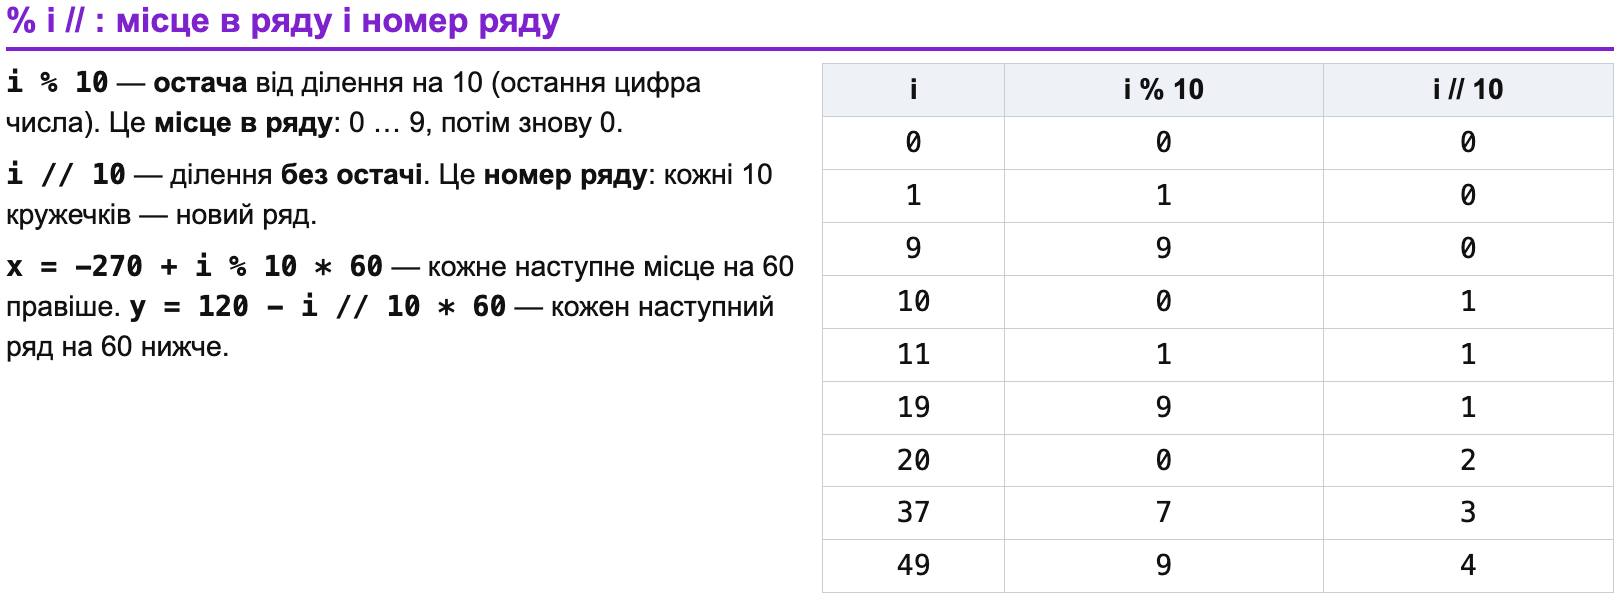
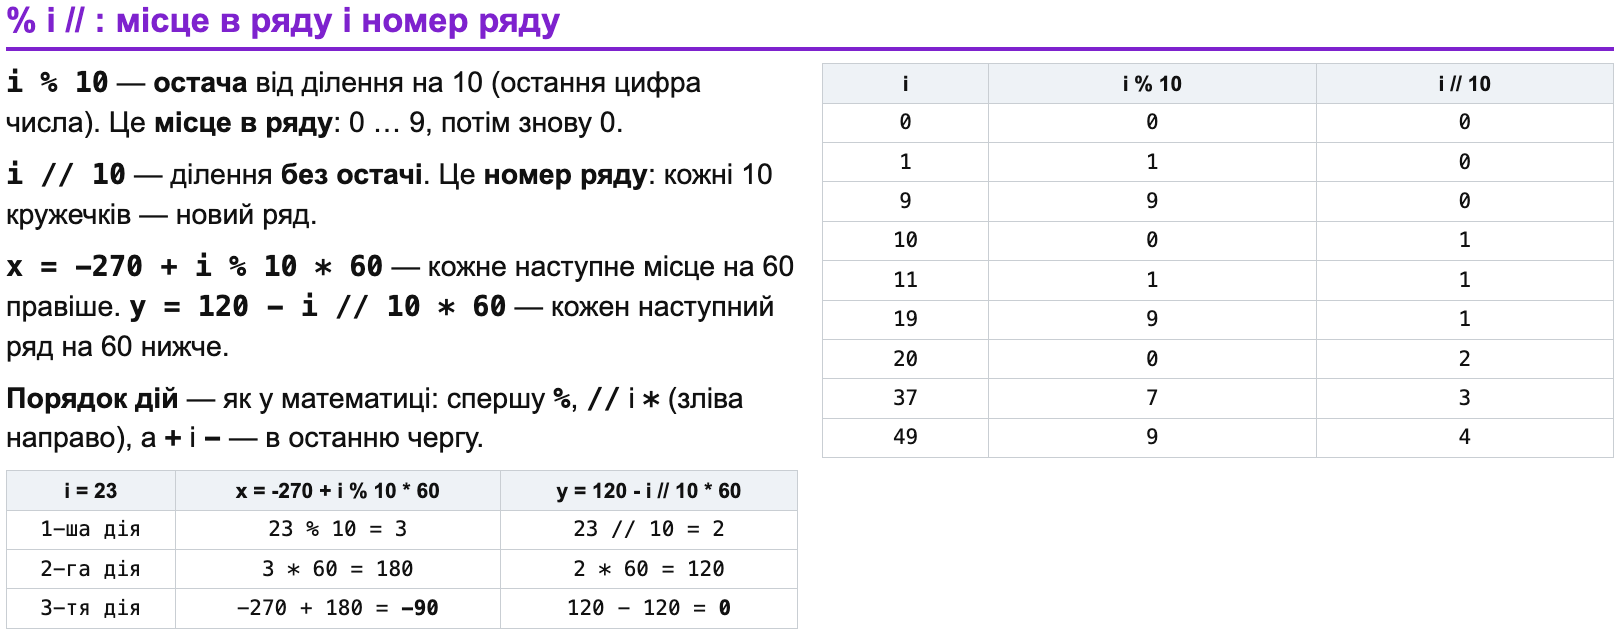
Урок 10.11: налагодження програм для 8-А; 7-Б: порядок дій і ширші таблиці

diff --git a/8a-nalagodzhennia.html b/8a-nalagodzhennia.html
@@ -1,0 +1,129 @@
+<!DOCTYPE html>
+<html lang="uk">
+<head>
+<meta charset="utf-8">
+<meta name="viewport" content="width=device-width, initial-scale=1">
+<title>Налагодження програм</title>
+<style>
+  * { box-sizing: border-box; }
+  :root { --a: #0b5cad; --a2: #eef4fb; }
+  body { margin: 0; background: #e9ecef; color: #111; font: 19px/1.4 "Segoe UI", Roboto, Arial, sans-serif; }
+  .sheet { max-width: 1120px; margin: 12px auto; background: #fff; border: 1px solid #c9ced3; padding: 14px 24px 18px; }
+  section { margin-top: 20px; }
+  h1 { font-size: 30px; margin: 0 0 6px; text-wrap: balance; }
+  h1 span { font-weight: 400; color: #555; font-size: 19px; }
+  h2 { font-size: 23px; margin: 0 0 8px; color: var(--a); border-bottom: 3px solid var(--a); padding-bottom: 2px; text-wrap: balance; }
+  p { margin: 0 0 8px; }
+  ol, ul { margin: 0 0 8px; padding-left: 1.4em; } li { margin-bottom: 4px; }
+  code { font-family: Consolas, "Courier New", monospace; font-weight: 700; }
+  .big { font-weight: 700; background: #fff6dd; border-left: 5px solid #c79100; padding: 6px 10px; margin: 0 0 8px; }
+  .digits { font: 700 26px Consolas, "Courier New", monospace; letter-spacing: 1px; background: #111; color: #ffe066; padding: 6px 12px; border-radius: 6px; margin: 0 0 8px; overflow-x: auto; white-space: nowrap; }
+  .digits span { color: #fff; }
+  .two { display: grid; grid-template-columns: minmax(0, 1fr) 360px; gap: 16px; align-items: start; }
+  pre { font-family: Consolas, "Courier New", monospace; font-weight: 700; font-size: 17px; line-height: 1.3; background: #f4f6f9; border: 2px solid #d5dbe3; border-left: 8px solid var(--a); border-radius: 4px; padding: 6px 10px; margin: 0 0 8px; overflow-x: auto; }
+  .k { color: #b0006e; } .s { color: #0a6e2a; } .n { color: #b45309; }
+  figure { margin: 0; }
+  svg.pic { width: 100%; height: auto; display: block; border-radius: 6px; }
+  figcaption { font-size: 16px; color: #444; margin-top: 3px; }
+  .run { background: #fff6dd; border-left: 5px solid #c79100; padding: 5px 10px; margin: 0 0 8px; }
+  .try { background: var(--a2); border-left: 5px solid var(--a); padding: 5px 10px; margin: 0 0 8px; }
+  .try b { color: var(--a); }
+  table { border-collapse: collapse; margin: 0 0 8px; width: 100%; }
+  td, th { border: 1px solid #c9ced3; padding: 4px 9px; text-align: left; vertical-align: top; }
+  th { background: #eef2f6; }
+  td:first-child code { white-space: nowrap; }
+  .wrap { overflow-x: auto; }
+  .star { background: #eef8ee; border-left: 5px solid #1a7f37; padding: 6px 10px; }
+  button { font: inherit; font-size: 17px; padding: 4px 12px; border: 2px solid var(--a); border-radius: 5px; background: #fff; color: var(--a); font-weight: 700; cursor: pointer; }
+  button:disabled { opacity: .55; cursor: default; }
+  button:focus-visible, input:focus-visible { outline: 3px solid #f5b400; outline-offset: 1px; }
+  .quiz { display: grid; gap: 8px; margin-bottom: 8px; }
+  .q { border: 1px solid #d5dae0; border-radius: 6px; padding: 8px 12px; }
+  .ans { display: flex; flex-wrap: wrap; gap: 8px; align-items: center; }
+  .ans input { font: 700 19px Consolas, "Courier New", monospace; width: 5em; padding: 4px 8px; border: 2px solid #9aa4ae; border-radius: 5px; }
+  .q p { margin-bottom: 6px; }
+  .q.yes { border-color: #1a7f37; background: #f3faf4; }
+  .q.no { border-color: #b42318; background: #fdf3f2; }
+  .mark { font-weight: 700; }
+  .q.yes .mark { color: #1a7f37; } .q.no .mark { color: #b42318; }
+  .score { font-weight: 700; font-size: 21px; }
+  @media (max-width: 820px) { .two { grid-template-columns: 1fr; } }
+  .tasks { display: grid; gap: 8px; margin: 0 0 8px; padding: 0; list-style: none; counter-reset: t; }
+  .tasks li { counter-increment: t; border: 1px solid #d5dae0; border-radius: 6px; padding: 6px 10px 6px 44px; position: relative; margin: 0; }
+  .tasks li::before { content: counter(t); position: absolute; left: 10px; top: 6px; background: var(--a); color: #fff; font-weight: 700; border-radius: 50%; width: 1.5em; height: 1.5em; display: flex; align-items: center; justify-content: center; font-size: .9em; }
+  .tasks .was { color: #b42318; } .tasks .now { color: #1a7f37; }
+  .quiz { grid-template-columns: 1fr 1fr; }
+  @media (max-width: 820px) { .quiz { grid-template-columns: 1fr; } }
+
+  .kinds { display: grid; grid-template-columns: repeat(3, minmax(0, 1fr)); gap: 12px; margin: 0 0 8px; }
+  .kind { border: 2px solid #d5dae0; border-radius: 8px; padding: 8px 10px; min-width: 0; }
+  .kind h3 { margin: 0 0 4px; font-size: 20px; }
+  .kind pre { font-size: 15px; }
+  .k1 { border-color: #c2410c; } .k1 h3 { color: #c2410c; }
+  .k2 { border-color: #b42318; } .k2 h3 { color: #b42318; }
+  .k3 { border-color: #7e22ce; } .k3 h3 { color: #7e22ce; }
+  .err { background: #fff1f0; border: 1px solid #f5c2c0; color: #8a1c14; font-family: Menlo, Consolas, monospace; font-size: 15px; padding: 6px 10px; border-radius: 4px; white-space: pre-wrap; margin: 0 0 8px; }
+  .out { background: #f0fdf4; border: 1px solid #bbf7d0; font-family: Menlo, Consolas, monospace; font-size: 15px; padding: 6px 10px; border-radius: 4px; white-space: pre-wrap; margin: 0 0 8px; }
+  .bug { border: 2px solid #d5dae0; border-radius: 8px; padding: 8px 12px; margin: 0 0 12px; }
+  .bug h3 { margin: 0 0 6px; font-size: 20px; }
+  .lab { font-size: 13px; letter-spacing: 1px; text-transform: uppercase; color: #6b7280; margin: 4px 0 2px; }
+  .ann td:first-child { white-space: nowrap; }
+  @media (max-width: 820px) { .kinds { grid-template-columns: 1fr; } }
+
+  .sheet img { display: block; max-width: 100%; height: auto; margin: 0 0 14px; -webkit-user-drag: none; user-select: none; }
+  .q p { margin: 0 0 6px; } .q img { margin: 0 !important; }
+</style>
+</head>
+<body>
+<div class="sheet">
+  <img src="8a-nalagodzhennia/b00.png" width="1040" height="123" alt="Налагодження програм" draggable="false">
+  <img src="8a-nalagodzhennia/b01.png" width="1080" height="383" alt="Три види помилок" draggable="false">
+  <img src="8a-nalagodzhennia/b02.png" width="1080" height="363" alt="Як читати повідомлення про помилку" draggable="false">
+  <img src="8a-nalagodzhennia/b03.png" width="1080" height="349" alt="Найчастіші повідомлення" draggable="false">
+  <img src="8a-nalagodzhennia/b04.png" width="1080" height="434" alt="Як шукати логічну помилку" draggable="false">
+  <img src="8a-nalagodzhennia/b05.png" width="1080" height="289" alt="Як працювати із завданнями" draggable="false">
+  <img src="8a-nalagodzhennia/b06.png" width="1080" height="1216" alt="Завдання 1–4" draggable="false">
+  <img src="8a-nalagodzhennia/b07.png" width="1080" height="1127" alt="Завдання 5–8" draggable="false">
+  <img src="8a-nalagodzhennia/b08.png" width="1080" height="1489" alt="Завдання 9–12" draggable="false">
+  <img src="8a-nalagodzhennia/b09.png" width="1080" height="185" alt="★ Для тих, хто вже все зробив" draggable="false">
+  <img src="8a-nalagodzhennia/b10.png" width="1080" height="69" alt="Тест: 12 питань" draggable="false">
+  <div class="quiz" id="quiz"></div>
+  <p class="score" id="score">Правильно: 0 з 12</p>
+  <img src="8a-nalagodzhennia/b11.png" width="1080" height="131" alt="Що показати вчителю" draggable="false">
+  <img src="8a-nalagodzhennia/b12.png" width="1080" height="96" alt="Домашнє завдання" draggable="false">
+</div>
+
+<script>
+const $ = id => document.getElementById(id);
+const QUIZ = [{"ok": "1"}, {"ok": "2"}, {"ok": "3"}, {"ok": "2"}, {"ok": "1"}, {"ok": "3"}, {"ok": "2"}, {"ok": "2"}, {"ok": "6"}, {"ok": "12"}, {"ok": "4"}, {"ok": "9"}];
+const IMGS = ["<img src=\"8a-nalagodzhennia/q01.png\" width=\"364\" height=\"28\" alt=\"Питання 1\" draggable=\"false\">", "<img src=\"8a-nalagodzhennia/q02.png\" width=\"319\" height=\"26\" alt=\"Питання 2\" draggable=\"false\">", "<img src=\"8a-nalagodzhennia/q03.png\" width=\"508\" height=\"53\" alt=\"Питання 3\" draggable=\"false\">", "<img src=\"8a-nalagodzhennia/q04.png\" width=\"319\" height=\"27\" alt=\"Питання 4\" draggable=\"false\">", "<img src=\"8a-nalagodzhennia/q05.png\" width=\"426\" height=\"28\" alt=\"Питання 5\" draggable=\"false\">", "<img src=\"8a-nalagodzhennia/q06.png\" width=\"500\" height=\"55\" alt=\"Питання 6\" draggable=\"false\">", "<img src=\"8a-nalagodzhennia/q07.png\" width=\"521\" height=\"54\" alt=\"Питання 7\" draggable=\"false\">", "<img src=\"8a-nalagodzhennia/q08.png\" width=\"285\" height=\"26\" alt=\"Питання 8\" draggable=\"false\">", "<img src=\"8a-nalagodzhennia/q09.png\" width=\"539\" height=\"55\" alt=\"Питання 9\" draggable=\"false\">", "<img src=\"8a-nalagodzhennia/q10.png\" width=\"507\" height=\"54\" alt=\"Питання 10\" draggable=\"false\">", "<img src=\"8a-nalagodzhennia/q11.png\" width=\"449\" height=\"55\" alt=\"Питання 11\" draggable=\"false\">", "<img src=\"8a-nalagodzhennia/q12.png\" width=\"350\" height=\"27\" alt=\"Питання 12\" draggable=\"false\">"];
+let right = 0, answered = 0;
+$("quiz").innerHTML = QUIZ.map((t, k) => `
+  <div class="q" id="q${k}">
+    <p>${IMGS[k]}</p>
+    <div class="ans">
+      <input id="a${k}" autocomplete="off" aria-label="Відповідь ${k + 1}">
+      <button data-q="${k}">Перевірити</button>
+      <span class="mark" id="m${k}"></span>
+    </div>
+  </div>`).join("");
+function check(k) {
+  const box = $("q" + k), inp = $("a" + k), t = QUIZ[k];
+  if (box.classList.contains("yes") || box.classList.contains("no")) return;
+  if (!inp.value.trim()) { inp.focus(); return; }
+  const good = inp.value.replace(/\s/g, "") === t.ok;
+  box.classList.add(good ? "yes" : "no");
+  inp.readOnly = true;
+  box.querySelector("button").disabled = true;
+  $("m" + k).textContent = good ? "✓ Правильно" : `✗ Правильно: ${t.ok}`;
+  if (good) right++;
+  answered++;
+  $("score").textContent = `Правильно: ${right} з ${QUIZ.length}` + (answered === QUIZ.length ? " — покажи вчителю" : "");
+  const next = $("a" + (k + 1));
+  if (next) next.focus();
+}
+$("quiz").addEventListener("click", e => { const b = e.target.closest("button[data-q]"); if (b) check(+b.dataset.q); });
+$("quiz").addEventListener("keydown", e => { if (e.key === "Enter" && e.target.id.startsWith("a")) check(+e.target.id.slice(1)); });
+</script>
+</body>
+</html>

diff --git a/8a-plan-1011.html b/8a-plan-1011.html
@@ -1,0 +1,47 @@
+<!DOCTYPE html>
+<html lang="uk">
+<head>
+<meta charset="utf-8">
+<meta name="viewport" content="width=device-width, initial-scale=1">
+<title>План: налагодження, 8-А</title>
+<style>
+  * { box-sizing: border-box; }
+  body { margin: 0; background: #e9ecef; color: #111; font: 18px/1.45 "Segoe UI", Roboto, Arial, sans-serif; }
+  .sheet { max-width: 900px; margin: 12px auto; background: #fff; border: 1px solid #c9ced3; padding: 14px 24px 18px; }
+  section { margin-top: 18px; }
+  h1 { font-size: 28px; margin: 0 0 6px; text-wrap: balance; }
+  h1 span { font-weight: 400; color: #555; font-size: 18px; }
+  h2 { font-size: 22px; margin: 0 0 8px; color: #0b5cad; border-bottom: 3px solid #0b5cad; padding-bottom: 2px; }
+  p { margin: 0 0 8px; }
+  table { border-collapse: collapse; width: 100%; }
+  td, th { border: 1px solid #c9ced3; padding: 5px 9px; text-align: left; vertical-align: top; }
+  th { background: #eef2f6; }
+  td:first-child { white-space: nowrap; font-weight: 700; color: #0b5cad; font-variant-numeric: tabular-nums; }
+  .wrap { overflow-x: auto; }
+</style><style>pre{font-family:Menlo,Consolas,monospace;font-size:14px;background:#f4f6f9;padding:6px 10px;margin:4px 0 10px;border-left:5px solid #1a7f37}</style>
+</head>
+<body>
+<div class="sheet">
+  <h1>План уроку <span>· 8-А · 10.11 · Налагодження програм</span></h1>
+
+  <p>Тема за КТП: «Налагодження програм». Сторінка для учнів: <a href="8a-nalagodzhennia.html">yuriihalas.github.io/it/8a-nalagodzhennia.html</a> — код і тексти картинками, учні переписують програми з помилками. Відповіді й виправлені програми лежать лише на Mac, у папці «8 клас».</p>
+  <section><h2>Хід уроку</h2><div class="wrap"><table>
+    <tr><th>Хв</th><th>Що робимо</th></tr>
+    <tr><td>0–5</td><td>Що таке баг і налагодження; історія з метеликом (1947, Mark II). Питання: «Які помилки у вас уже бували в Thonny?»</td></tr>
+    <tr><td>5–14</td><td>Три види помилок на прикладах зі сторінки. Як читати повідомлення знизу вгору: тип, пояснення, номер рядка. Показати на проєкторі: забути двокрапку і запустити.</td></tr>
+    <tr><td>14–17</td><td>Таблиця трасування і налагоджувач Thonny (Ctrl+F5, F6, View → Variables), кнопка Stop.</td></tr>
+    <tr><td>17–38</td><td>Завдання 1–12, таблиця в зошиті. Ходиш, питаєш: «Який це вид помилки? Як ти зрозумів?» Хто швидше — ★.</td></tr>
+    <tr><td>38–44</td><td>Тест на сторінці, 12 питань.</td></tr>
+    <tr><td>44–45</td><td>Домашнє.</td></tr>
+  </table></div></section>
+  <section><h2>Оцінювання: 12 балів</h2><div class="wrap"><table>
+    <tr><th>Що</th><th>Бали</th><th>Як перевірити</th></tr>
+    <tr><td>Завдання</td><td>7</td><td>Таблиця в зошиті: 11–12 завдань — 7, 9–10 — 6, 7–8 — 5, 5–6 — 4, 3–4 — 2</td></tr>
+    <tr><td>Виправлені програми</td><td>2</td><td>Показати 2 програми, що працюють як у «Має вийти»</td></tr>
+    <tr><td>Тест</td><td>3</td><td>11–12 правильних — 3, 8–10 — 2, 5–7 — 1</td></tr>
+  </table></div></section>
+  <section><h2>На що звернути увагу</h2><p>Учні часто одразу виправляють помилку під час переписування — попроси спершу переписати як є й запустити, щоб побачити повідомлення. Завдання 11 зациклюється: кнопка Stop або Ctrl+F2. Текст повідомлень залежить від версії Python: у старших версіях замість «expected ':'» буде «invalid syntax».</p></section>
+
+</div>
+</body>
+</html>

diff --git a/7b-pi.html b/7b-pi.html
@@ -54,7 +54,8 @@
   .tasks .was { color: #b42318; } .tasks .now { color: #1a7f37; }
   .quiz { grid-template-columns: 1fr 1fr; }
   table.idx td, table.idx th { text-align: center; font-variant-numeric: tabular-nums; }
-  table.idx td { font-family: Menlo, Consolas, monospace; }
+  table.idx td { font-family: Menlo, Consolas, monospace; font-size: 14px; padding: 3px 4px; }
+  table.idx th { font-size: 14px; padding: 3px 5px; }
   .two2 { display: grid; grid-template-columns: minmax(0, 1fr) minmax(0, 1fr); gap: 16px; align-items: start; }
   .two2 pre { margin: 0; }
   @media (max-width: 820px) { .quiz { grid-template-columns: 1fr; } }
@@ -69,10 +70,10 @@
   <img src="7b-pi/b01.png" width="1080" height="637" alt="Частина 1. Перепиши і запусти F5" draggable="false">
   <img src="7b-pi/b02.png" width="1080" height="364" alt="Що означає" draggable="false">
   <img src="7b-pi/b03.png" width="1080" height="359" alt="Що таке цикл for" draggable="false">
-  <img src="7b-pi/b04.png" width="1080" height="210" alt="Рядок і його елементи" draggable="false">
-  <img src="7b-pi/b05.png" width="1080" height="179" alt="Список і його елементи" draggable="false">
-  <img src="7b-pi/b06.png" width="1080" height="399" alt="% і // : місце в ряду і номер ряду" draggable="false">
-  <img src="7b-pi/b07.png" width="1080" height="457" alt="Що робить комп'ютер у кожному повторі" draggable="false">
+  <img src="7b-pi/b04.png" width="1080" height="192" alt="Рядок і його елементи" draggable="false">
+  <img src="7b-pi/b05.png" width="1080" height="161" alt="Список і його елементи" draggable="false">
+  <img src="7b-pi/b06.png" width="1080" height="423" alt="% і // : місце в ряду і номер ряду" draggable="false">
+  <img src="7b-pi/b07.png" width="1080" height="376" alt="Що робить комп'ютер у кожному повторі" draggable="false">
   <img src="7b-pi/b08.png" width="1080" height="413" alt="Частина 2. Змінюй числа" draggable="false">
   <img src="7b-pi/b09.png" width="1080" height="343" alt="★ Для сильніших: прогулянка Пі" draggable="false">
   <img src="7b-pi/b10.png" width="1080" height="260" alt="★★ Ще завдання для сильніших" draggable="false">

diff --git a/index.html b/index.html
@@ -32,6 +32,7 @@
 
   <h2 id="d1011">10 листопада</h2>
   <ul>
+    <li><a class="lesson" href="8a-nalagodzhennia.html"><span class="date">8-А</span><span><span class="name">Налагодження програм</span><br><span class="note">три види помилок, 12 програм з помилками і тест</span></span></a></li>
     <li><a class="lesson" href="7b-pi.html"><span class="date">7-Б</span><span><span class="name">Число Пі в кольорах</span><br><span class="note">цикл, рядок, список: килимок у Thonny, зміни чисел і тест</span></span></a></li>
   </ul>
 
